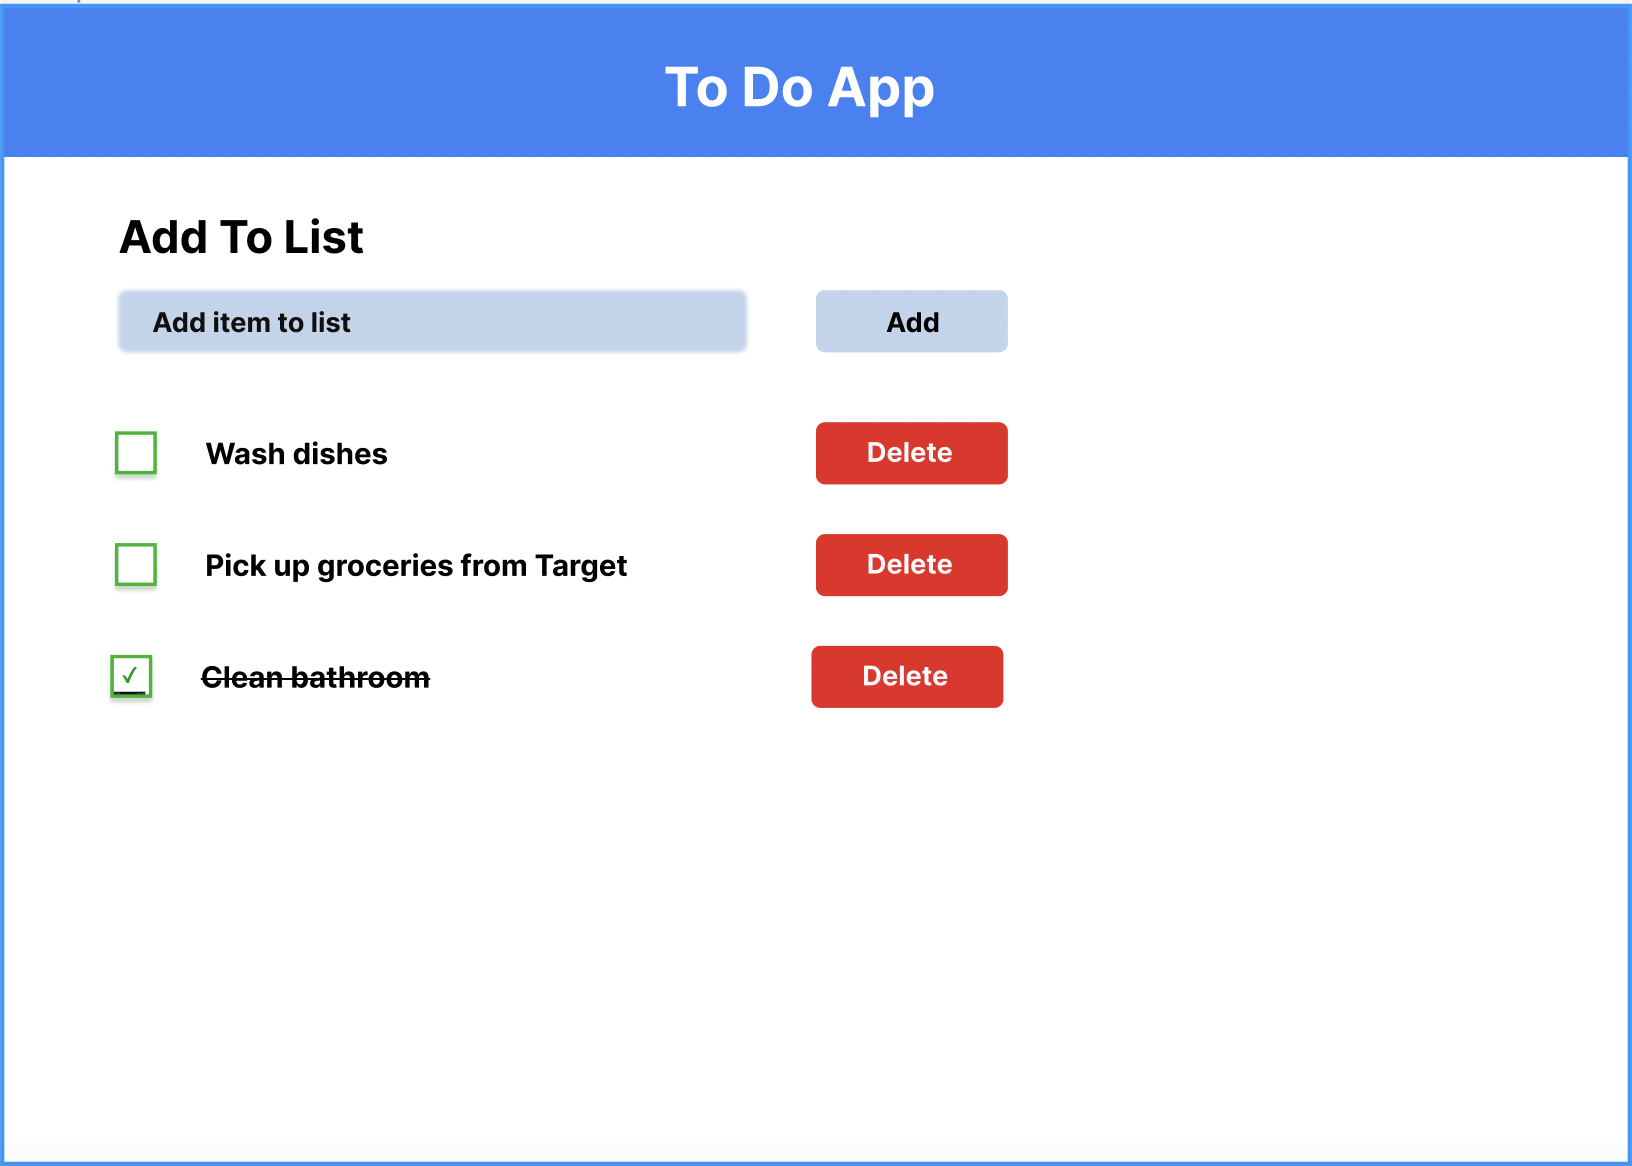
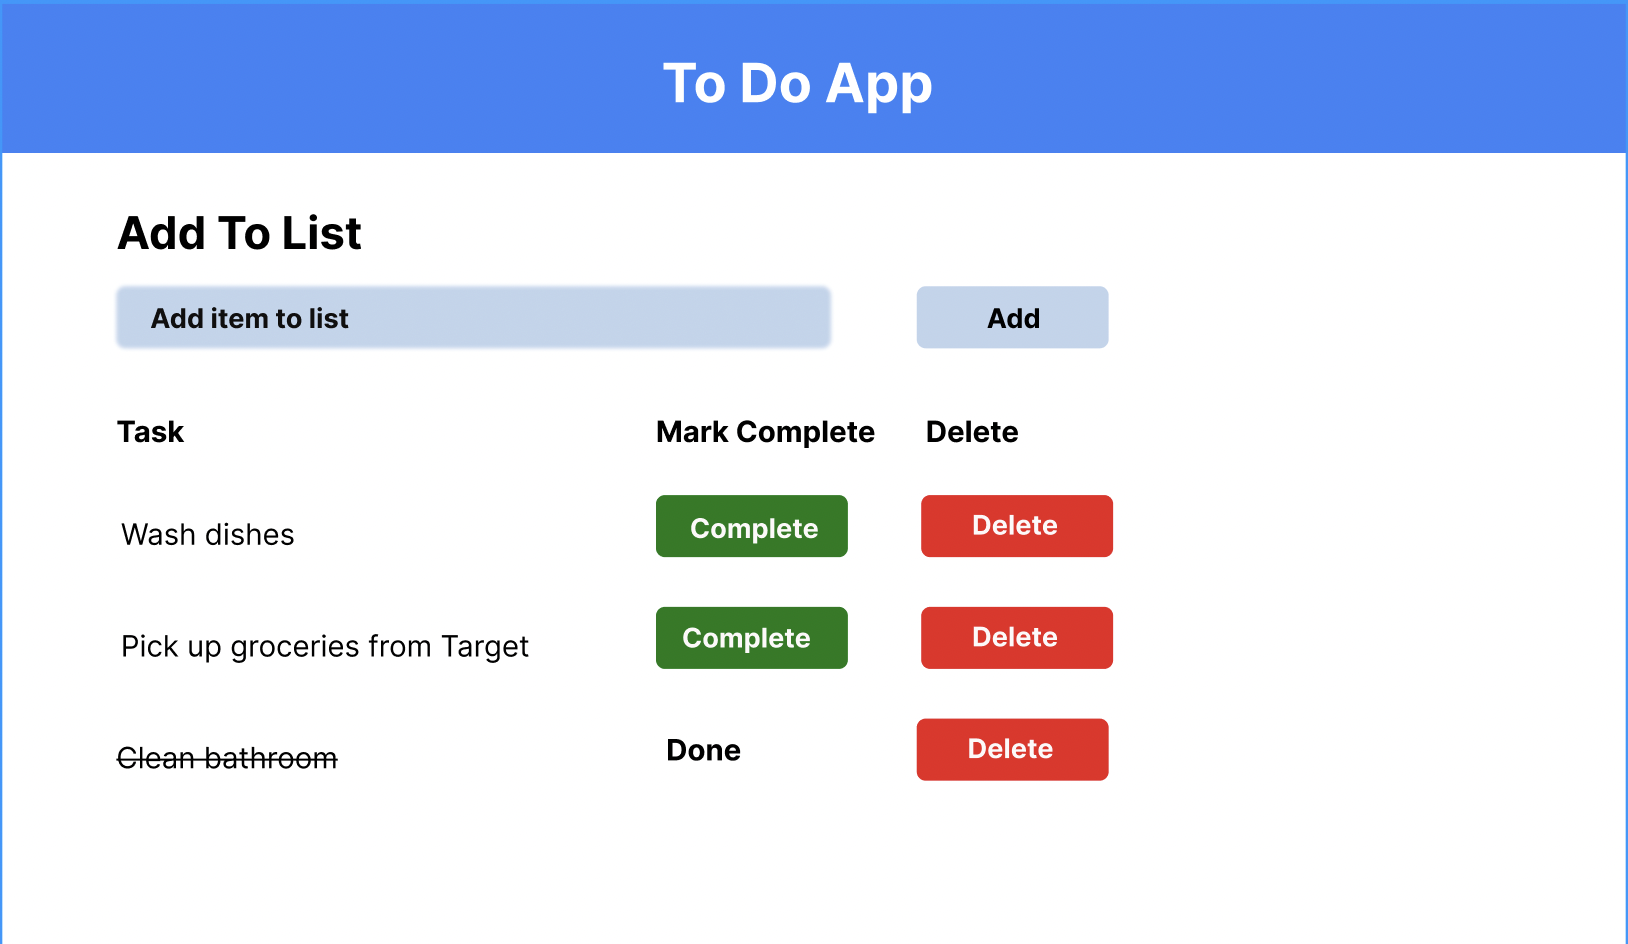
Style page

diff --git a/server/public/scripts/client.js b/server/public/scripts/client.js
@@ -60,23 +60,27 @@ function appendTasks(listOfTasks) {
   console.log("In appendTasks: ");
   // Empty task list
   $("#taskOut").empty();
+  // Loop through task items
   for (let i = 0; i < listOfTasks.length; i++) {
+    // Set variables to hold index of listOfTasks (listOfTask[i])
     let taskObject = listOfTasks[i];
+    // If task status is false
     if (taskObject.status === false) {
       $("#taskOut").append(`
           <tr>
               <td>${taskObject.task}</td>
-              <td>No</td>
-              <td><button class="completeButton" data-id="${taskObject.id}">✅</button></td>
+              <td><button class="completeButton" data-id="${taskObject.id}">Complete</button></td>
               <td><button class="deleteButton" data-index=${taskObject.id}>Delete</button></td>
           </tr>
           `);
+      // If task status is set to true
     } else if (taskObject.status === true) {
+      // jquery addClass method to strike through text after mark complete button clicked
+      // Target completeTaskToggle class
       $("#taskOut").append(`
           <tr class="completedTask" data-id="${taskObject.id}">
-              <td>${taskObject.task}</td>
-              <td>Yes</td>
-              <td>Completed</td>
+              <td class="completeTaskToggle">${taskObject.task}</td>
+              <td >Done</td>
               <td><button class="deleteButton" data-index=${taskObject.id}>Delete</button></td>
           </tr>
           `);
@@ -103,7 +107,8 @@ function deleteTask() {
 
 // PUT Ajax call to update task as completed
 function completeTask() {
-  console.log("in complete task", $(this).data("id"));
+  console.log("In completeTask ajax PUT call");
+  // User $(this) to target task ID
   let id = $(this).data("id");
   $.ajax({
     type: "PUT",

diff --git a/server/public/css/style.css b/server/public/css/style.css
@@ -58,6 +58,20 @@ td {
   padding: 10px;
 }
 
+.completeButton {
+  border: 1px solid green;
+  width: 100px;
+  height: 35px;
+  font-size: 1rem;
+  border-radius: 5px;
+  color: white;
+  background-color: green;
+}
+
+.completeButton:hover {
+  background-color: rgb(151, 197, 151);
+}
+
 .deleteButton {
   border: 1px solid red;
   width: 75px;
@@ -74,4 +88,8 @@ td {
 
 tbody {
   font-size: 1.25rem;
+}
+
+.completeTaskToggle {
+  text-decoration: line-through;
 }

diff --git a/server/routes/todo.router.js b/server/routes/todo.router.js
@@ -7,7 +7,8 @@ const pool = require("../modules/pool");
 // GET request
 todoRouter.get("/", (req, res) => {
   console.log("In GET route");
-  let queryText = `SELECT * FROM tasks;`;
+  // Display tasks in ascending order (A => Z)
+  let queryText = `SELECT * FROM tasks ORDER BY task ASC;`;
   pool
     .query(queryText)
     .then((result) => {

diff --git a/server/public/index.html b/server/public/index.html
@@ -26,8 +26,7 @@
         <thead>
           <tr>
             <th>Task</th>
-            <th>Complete?</th>
-            <th>Mark Completed</th>
+            <th>Mark Complete</th>
             <th>Delete</th>
           </tr>
         </thead>
